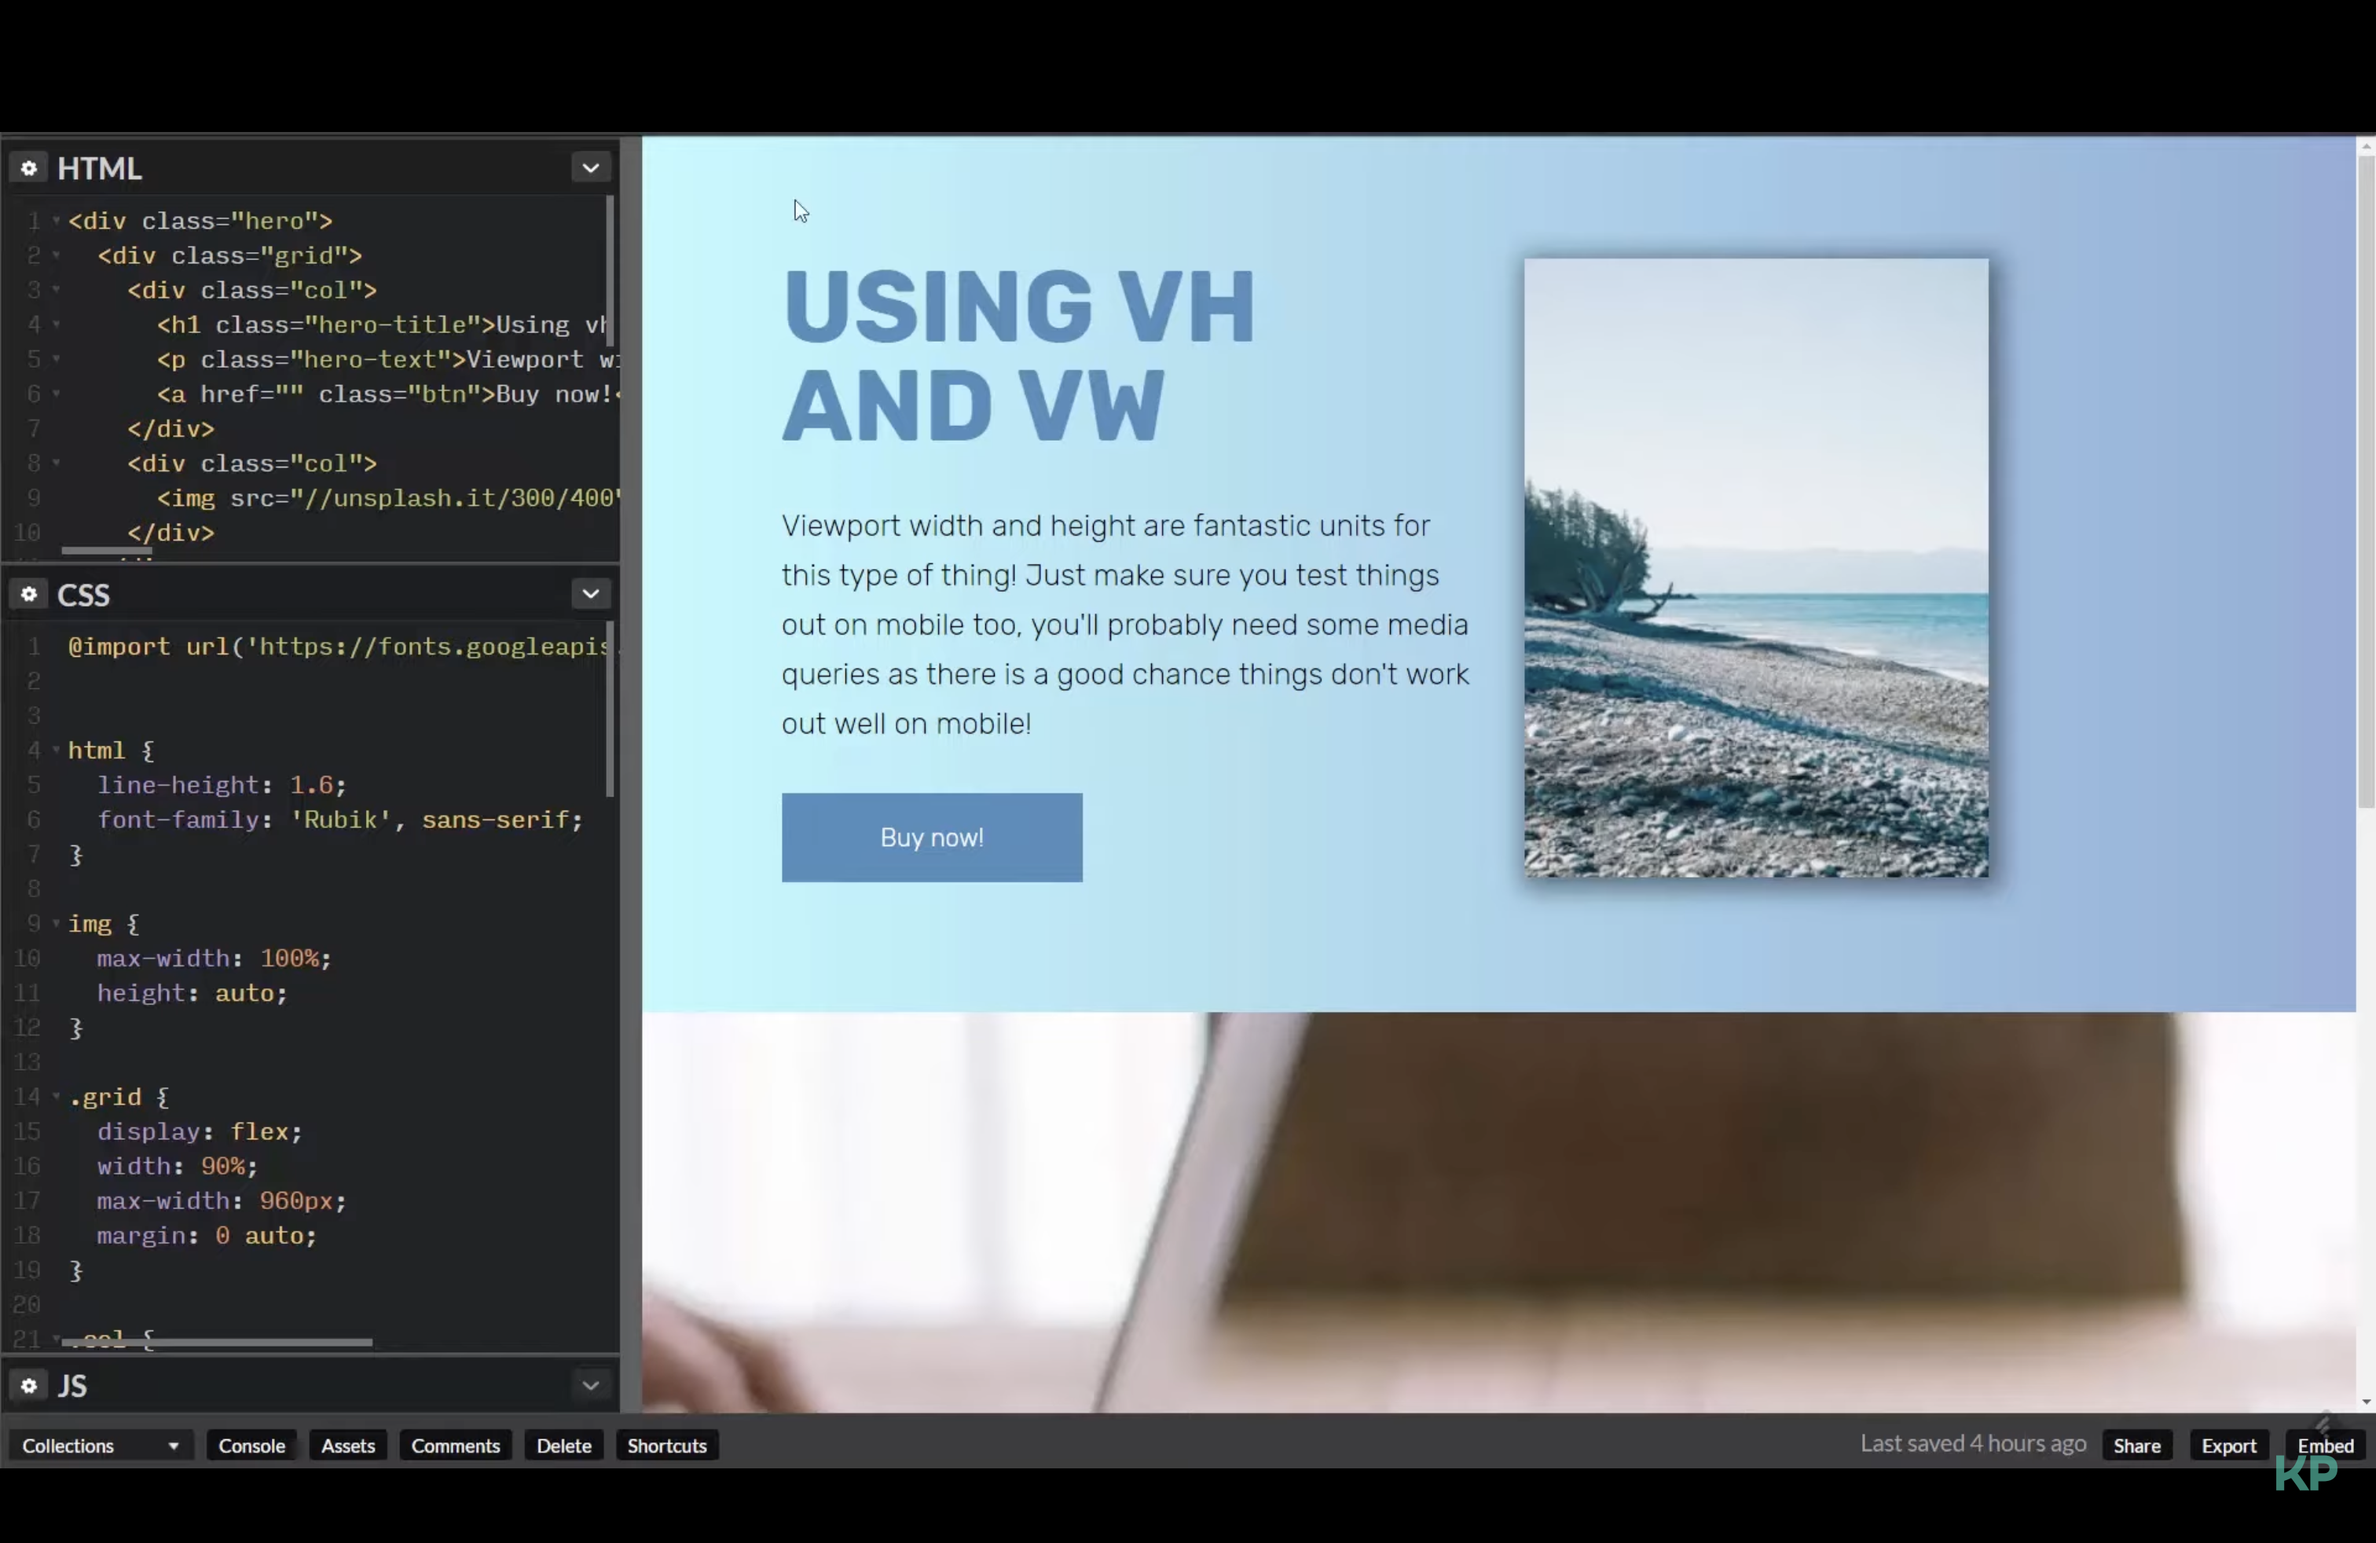
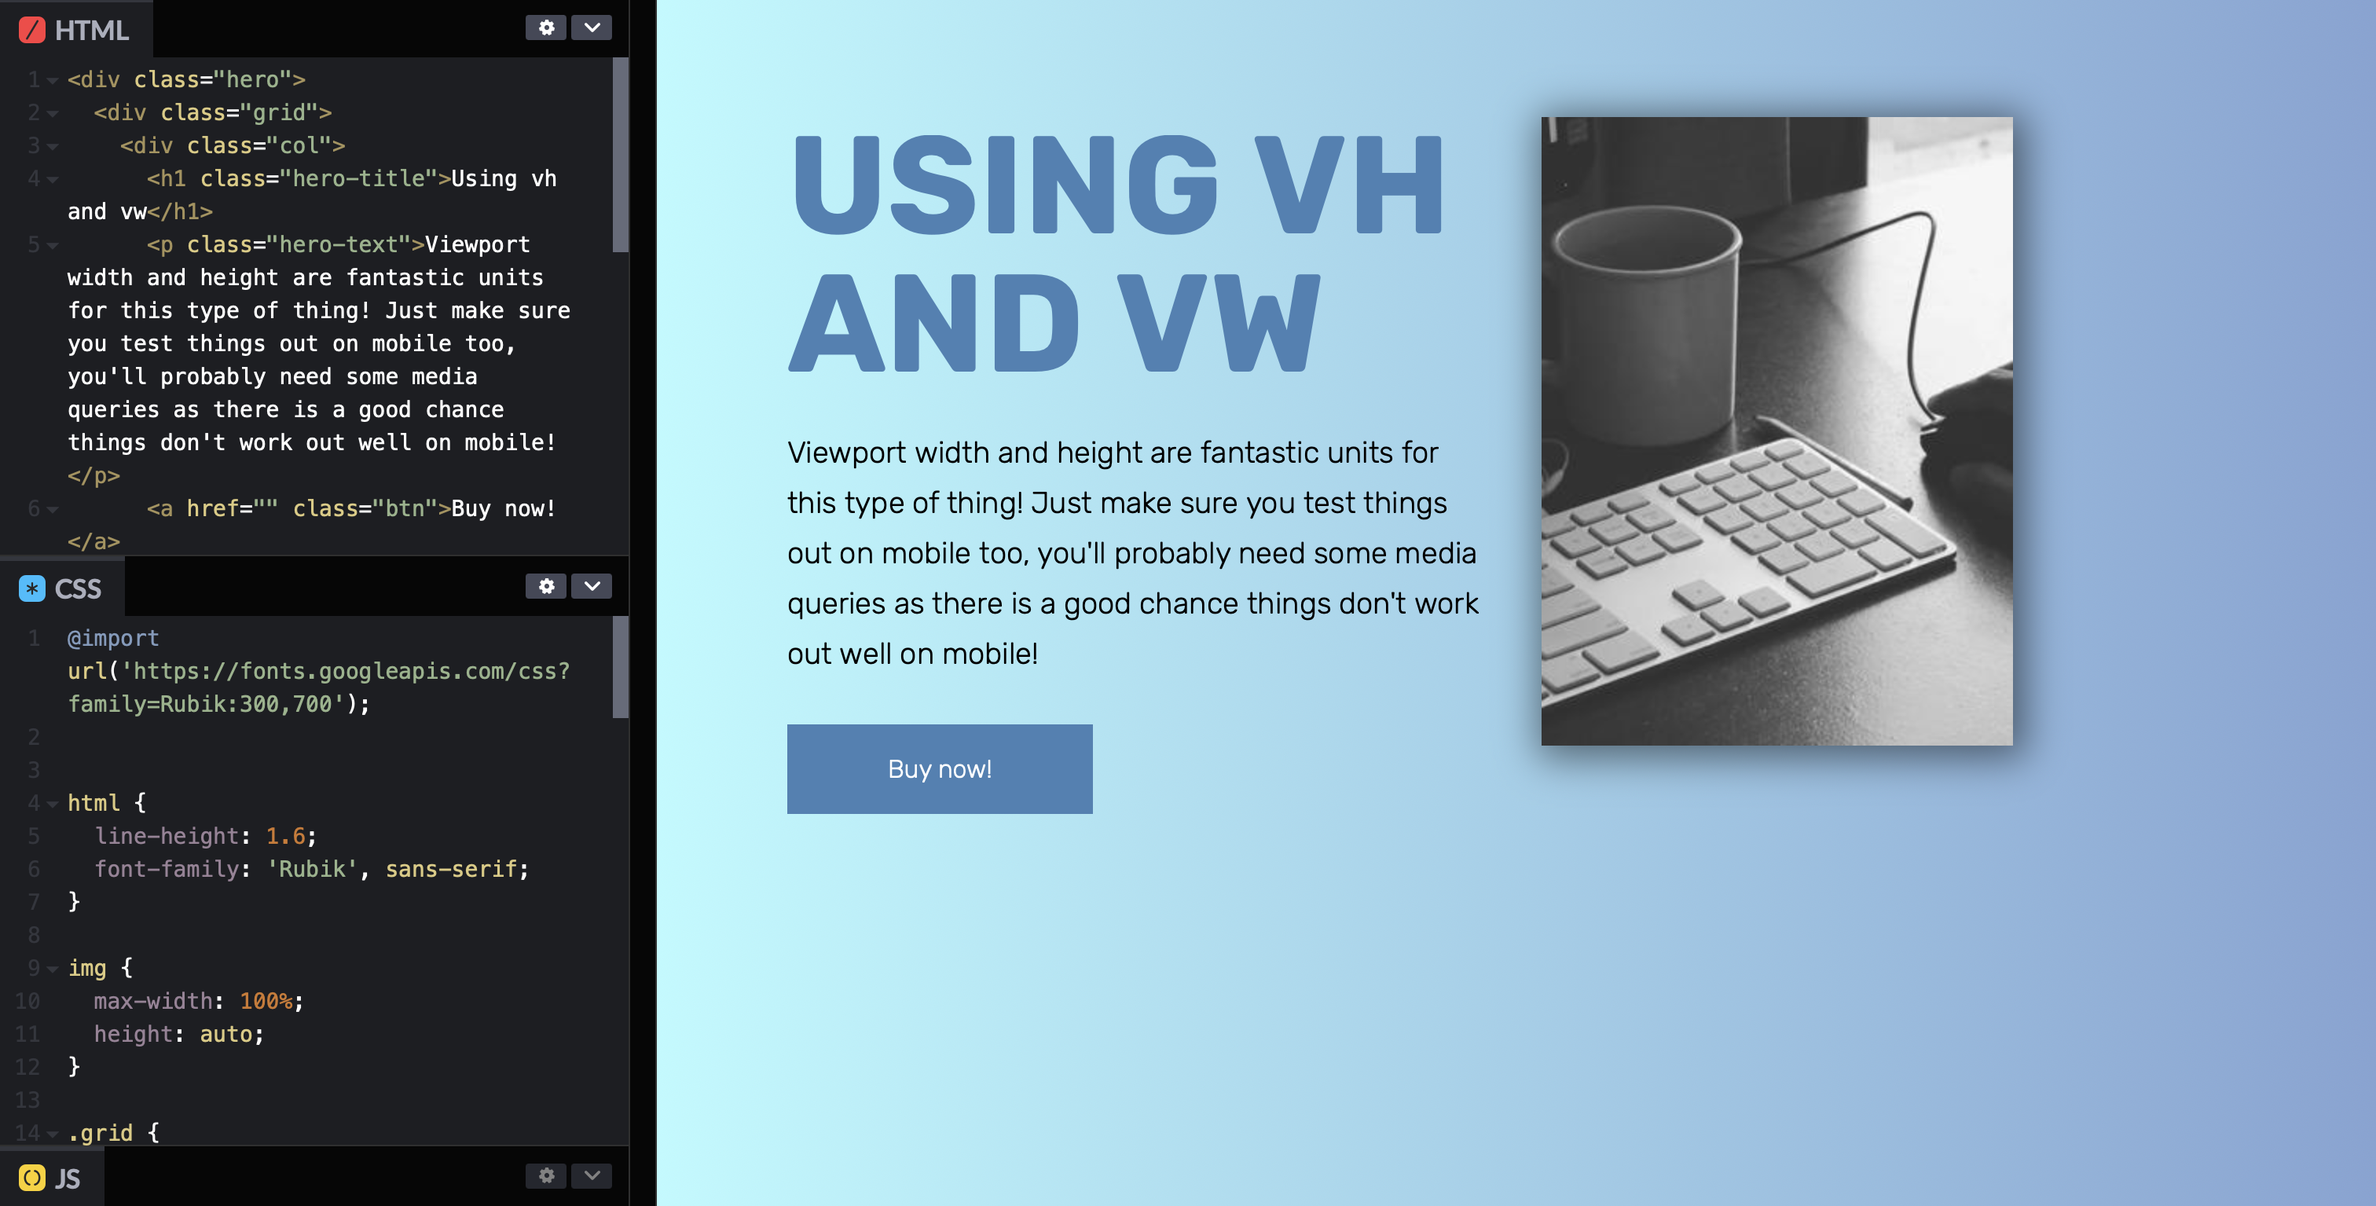
about 1/5th completed in day 4 lesson

diff --git a/css/notes/day_4.md b/css/notes/day_4.md
@@ -1,6 +1,27 @@
 ### CSS Units: `vh`, `vw`, `vmin`, `vmax`
 
-![Image 1.0](../images/day4_1.png)
-
 - `vh` = viewport height
 - `vw` = viewport width
+
+![Image 1.0](../images/day4_2.png)
+<br/>
+
+In the above example, it is a two column hero container with a background image on the bottom.
+
+**_One thing you should do initially that will help with your layouts is using_** `box-sizing: border-box` **_for the universal selector._** So, something like this:
+
+```
+* { // * means universal selector; selects everything
+    box-sizing: border-box;
+}
+```
+
+If you use `100vh` for the height in the hero container, it will extend the container to 100% of your "screen size" of the browser. If you were to change the size of the browser(shortening the browser for example), the hero container will dynamically change to that size.
+
+![Image 1.1](../images/day4_3.png)
+![Image 1.2](../images/day4_4.png)
+<br/>
+
+The negative side of using `vh` or `vw` will be on mobile devices. Images or content inside a container can overlap outside its borders.
+
+![Image 1.3](../images/day4_5.png)
